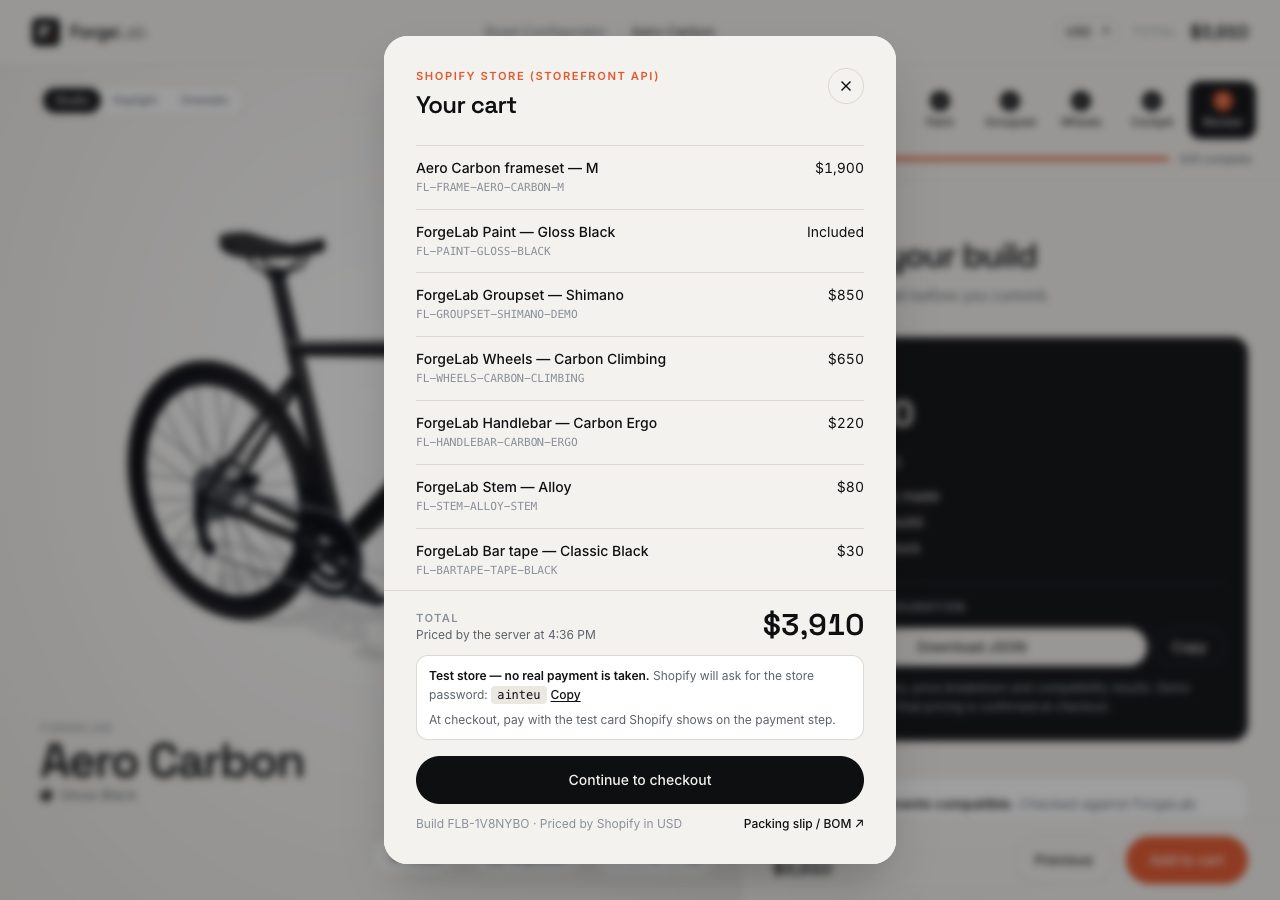
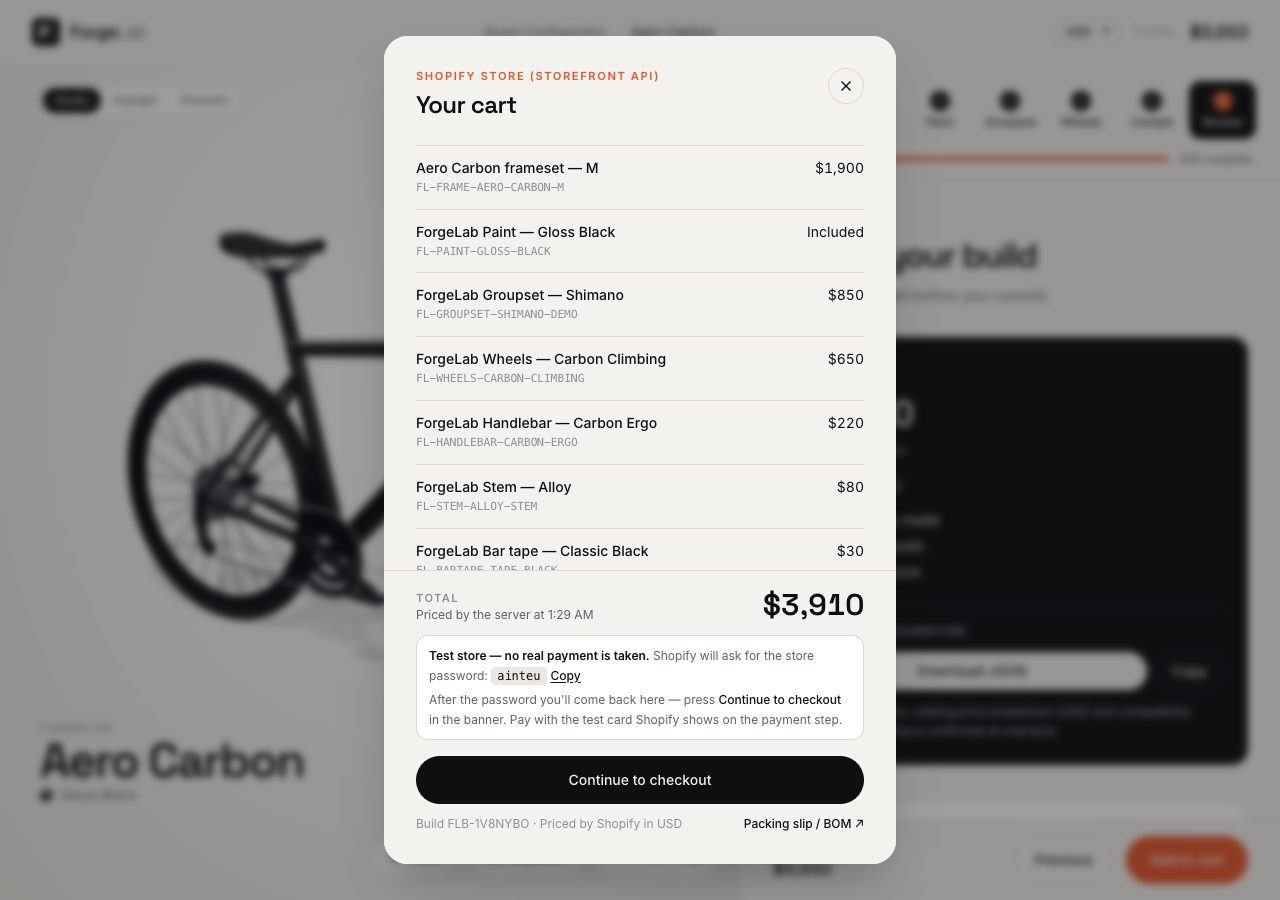
README: refresh screenshots from the live site; add live-prices shot

Changed region(s): [[0.3125, 0.6533, 1.0, 0.9022], [0.7188, 0.5289, 0.75, 0.56], [0.6875, 0.6222, 0.7188, 0.6533]]

diff --git a/README.md b/README.md
@@ -131,6 +131,8 @@ Shopify store.
   back to the configurator; if a checkout is still open, a one-time banner resumes it.
 - No Shopify SDK: one typed `fetch`, so the bundle doesn't grow.
 
+<p align="center"><img src="docs/screenshots/review-live-prices.jpg" alt="Review step: total and prices live from Shopify" width="720"><br><sub>Prices and stock come live from the Shopify store: change them in Shopify admin and the configurator follows within a minute.</sub></p>
+
 ## Studio admin: one-of-a-kind pieces
 
 For products where every piece is unique (a hide, a burl, a hand-finished part), the studio
